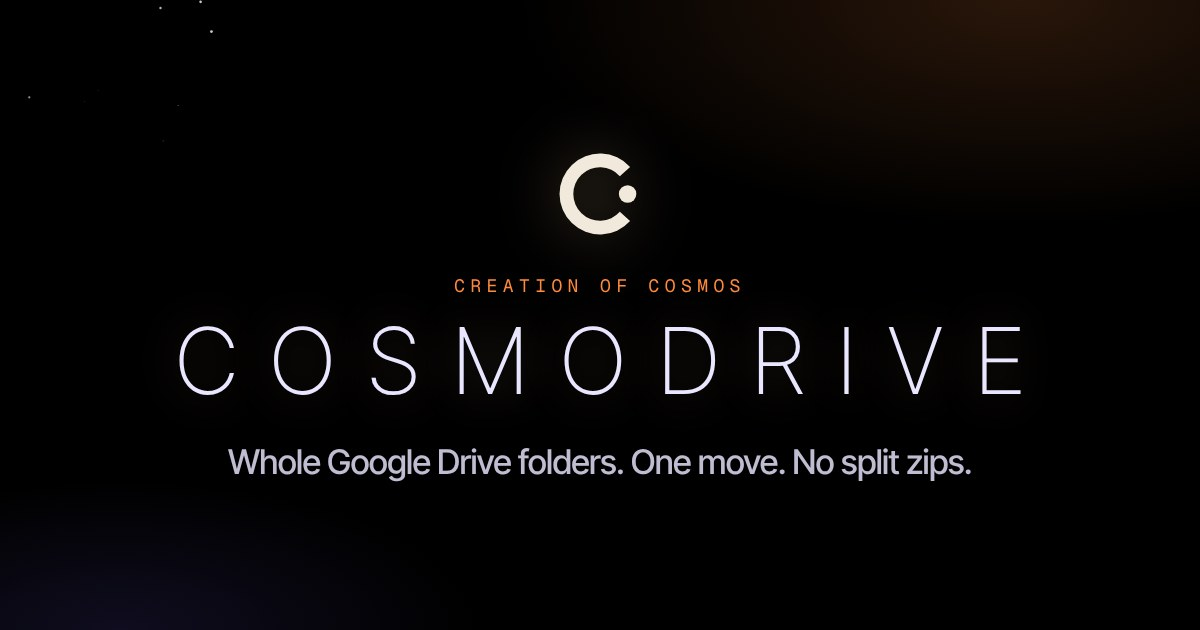
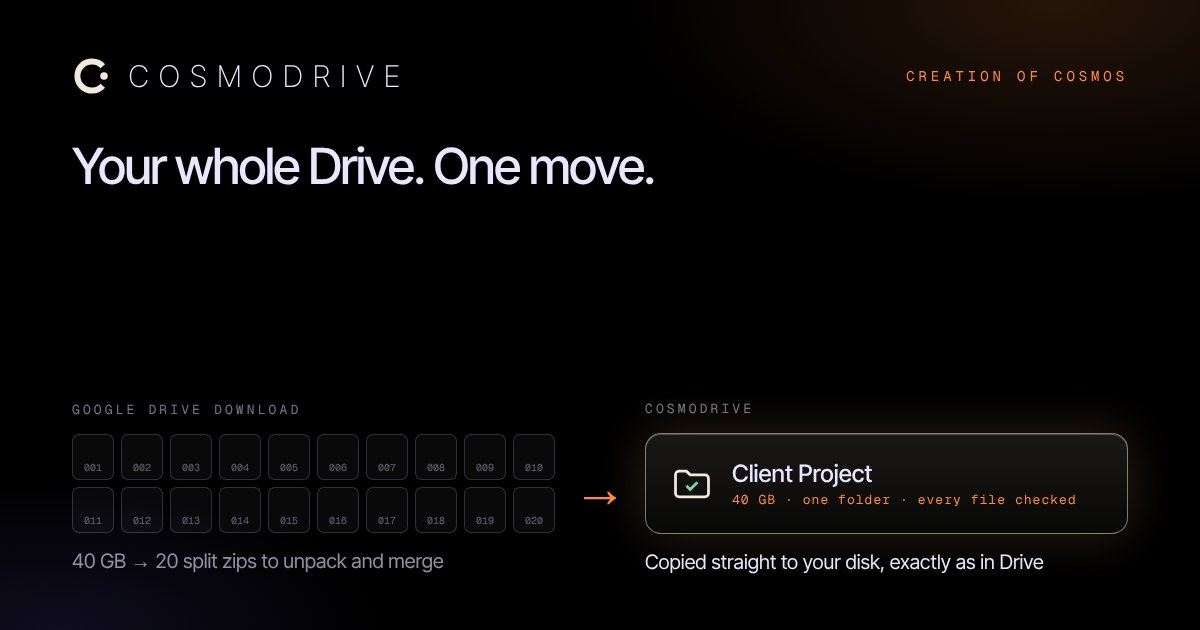
Preview card shows split zips vs one folder
Claude-Session: https://claude.ai/code/session_01W9ox9FoiKHmmGcV3YdXMZh

diff --git a/index.html b/index.html
@@ -15,7 +15,7 @@
     <meta property="og:image" content="https://drive.creationofcosmos.com/og.jpg" />
     <meta property="og:image:width" content="1200" />
     <meta property="og:image:height" content="630" />
-    <meta property="og:image:alt" content="CosmoDrive: whole Google Drive folders, one move, no split zips." />
+    <meta property="og:image:alt" content="Google Drive turns 40 GB into 20 split zips; CosmoDrive copies it as one folder, every file checked." />
     <meta name="twitter:card" content="summary_large_image" />
     <meta name="twitter:title" content="CosmoDrive" />
     <meta name="twitter:description" content="Download whole Google Drive folders in one go. No split zips, every file checked." />
